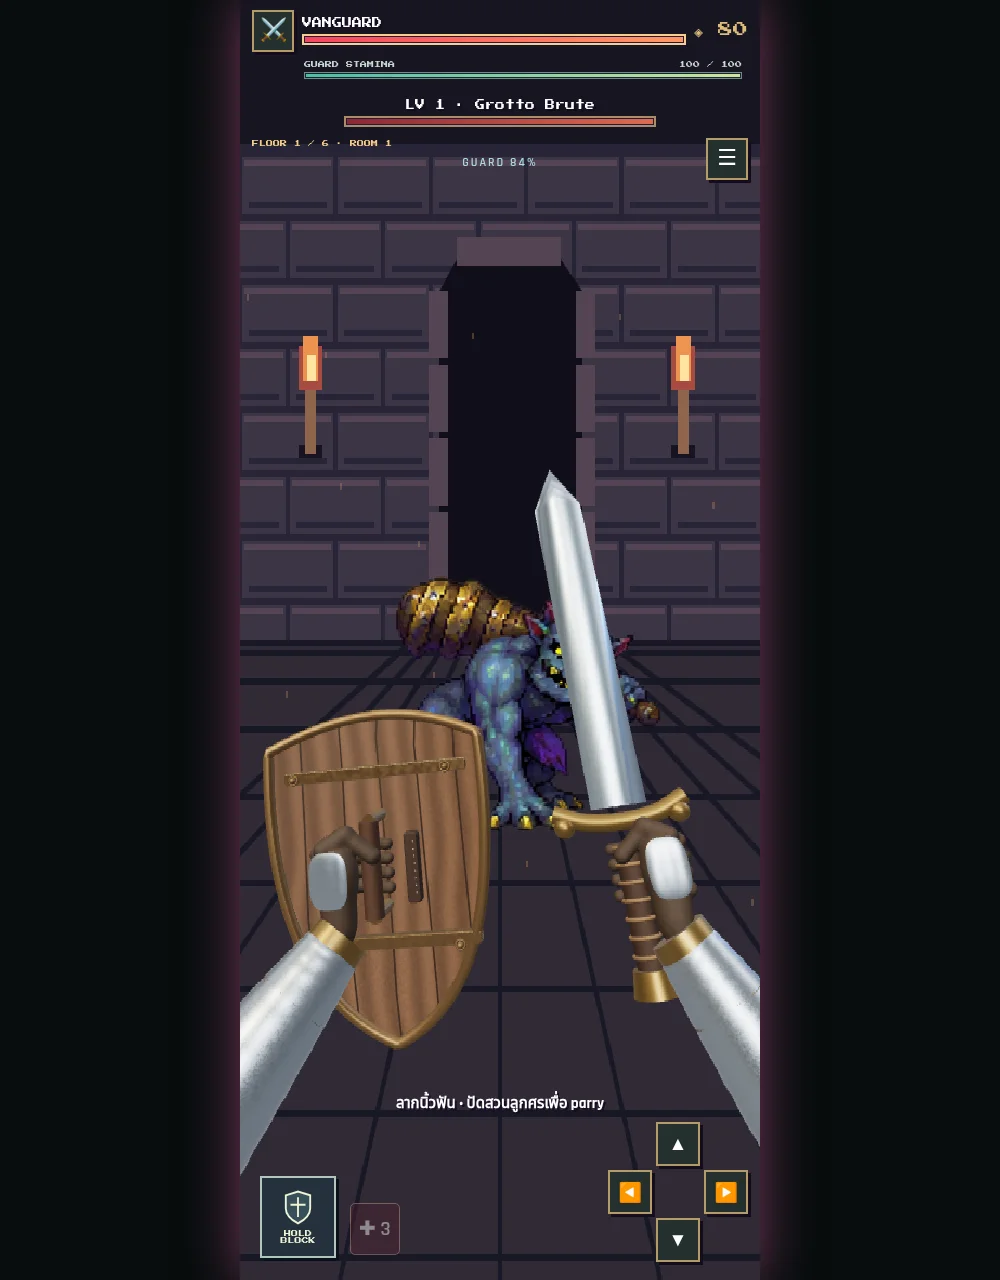
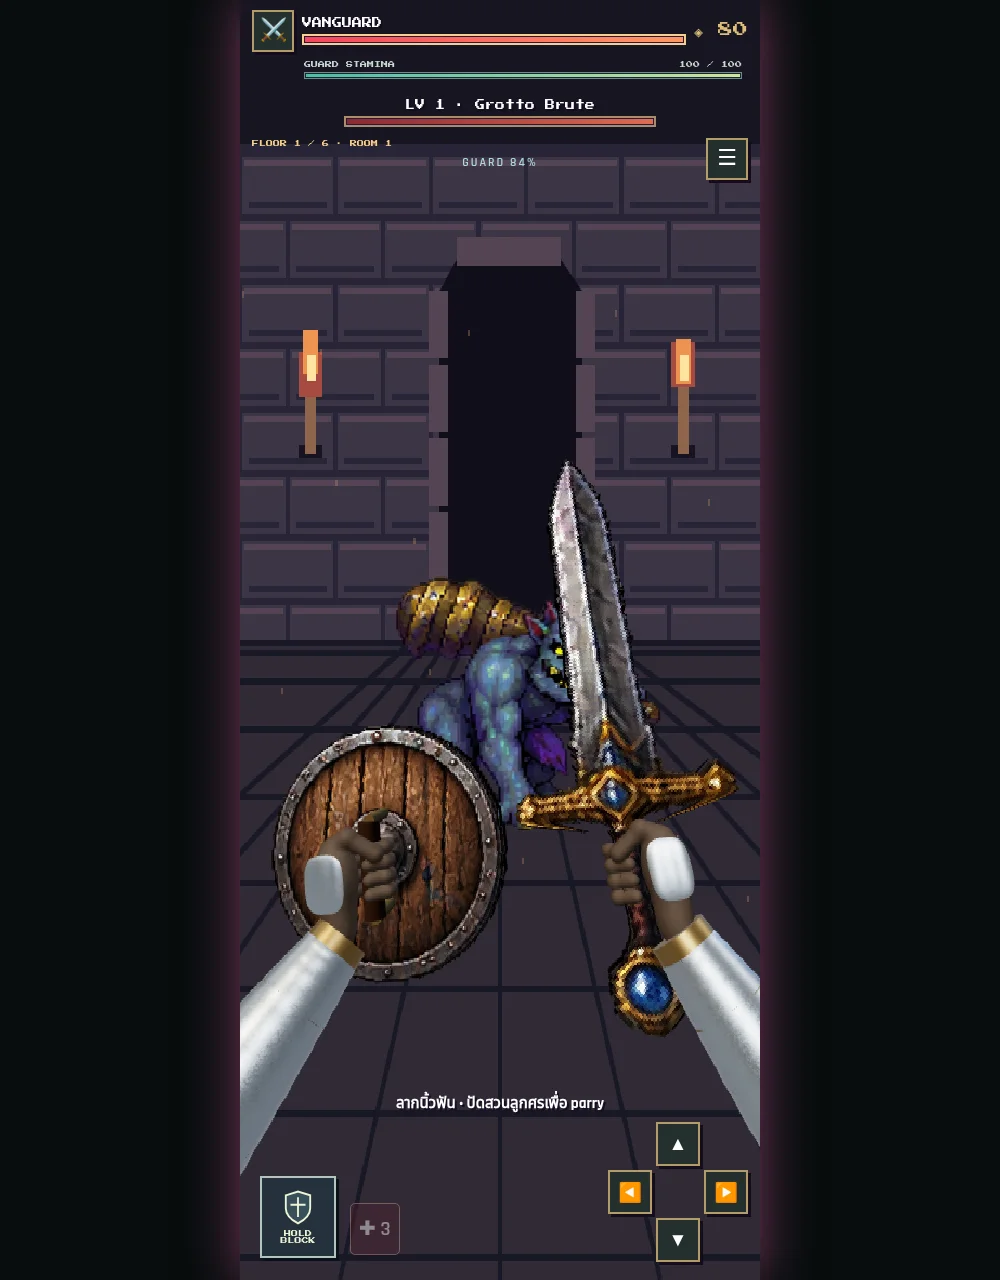
Use original pixel art on 3D equipment with closed hand grips (#8)
* Build solid 3D equipment from original pixel artwork

* Close fingers around centered weapon and shield grips

Changed region(s): [[0.248, 0.3438, 0.744, 0.8438]]

diff --git a/README.md b/README.md
@@ -39,6 +39,8 @@
 
 `player-rig.mjs` authors 3D wrist and torso keyframes and solves fixed-length shoulder/elbow/wrist chains. `player-3d.mjs` builds Three.js bone hierarchies, sculpted glove palms with curled fingers, armor sleeves, 13 main weapons and seven offhands. Weapons are children of the wrist bones; both hands share one grip transform for two-handed equipment. Shields face the enemy and show their back, straps and grip to the camera. Armor controls cloth, plate, leather and mage gloves/sleeves, including hue variants; there is no separate glove slot. Horizontal and vertical cuts have distinct chamber, contact, follow-through and recovery poses in 3D, with damage still at 110 ms. Guard recoil, parry, spells, hurt, stun, dodge, victory and death use the same skeleton.
 
+`pixel-equipment.mjs` uses the existing `gear.png` and `relics.png` inventory art as the source for equipment silhouettes and textures. Scanline faces and exposed-edge walls give each weapon and shield real thickness, with holes preserved. Native-resolution nearest-filtered textures retain the detailed painted pixel shading; they are not reduced to Minecraft-sized blocks. Tip/grip landmarks align each drawing to the existing wrist rig. The painted hilt is recentered and its contact bands fitted to both fists; local mesh subdivision preserves the painted surface through that adjustment. Closed glove fingers curl over the front and around the sides/back of the shaft, with a shaft-shaped clearance volume that prevents finger penetration. Hand clearance adapts to thicker staff grips and round shield handles. Two-handed hilts extend below the grip when needed, and shields have an attached rear handle. The source PNGs remain unchanged.
+
 `player-sculpt.mjs` creates continuous smooth hand surfaces and curved anatomical arm profiles; `player-materials.mjs` supplies wood grain, leather pores, fabric weave, brushed metal and material roughness. Rounded shield rims, curved gauntlet plates and a shared studio reflection environment avoid the blocky low-poly appearance. One shared WebGL renderer renders the 3D equipment into Phaser canvas textures. A perspective camera adapts to the displayed canvas aspect ratio to avoid stretched hands on mobile. Equipment remains lit in depth, and the glove fingers wrap around the handle. Enemy sprites, the arena and the equipment portrait retain their existing art. Combat requires WebGL 2; the start screen reports a renderer initialization failure. Three.js is bundled locally with its MIT license in `vendor/THREE-LICENSE.txt`.
 
 `npm test` covers bone lengths, reachable poses, both held grips, the actual Three.js bone hierarchy, directional motion and continuous cuts. `npm run test:browser` checks 78 equipment/material combinations, all combat states, seven offhand visuals and mobile rendering. With the server running, `node tools/preview-3d.mjs` records the actual 3D renderer into `artifacts/3d-frames/` for animation review.
